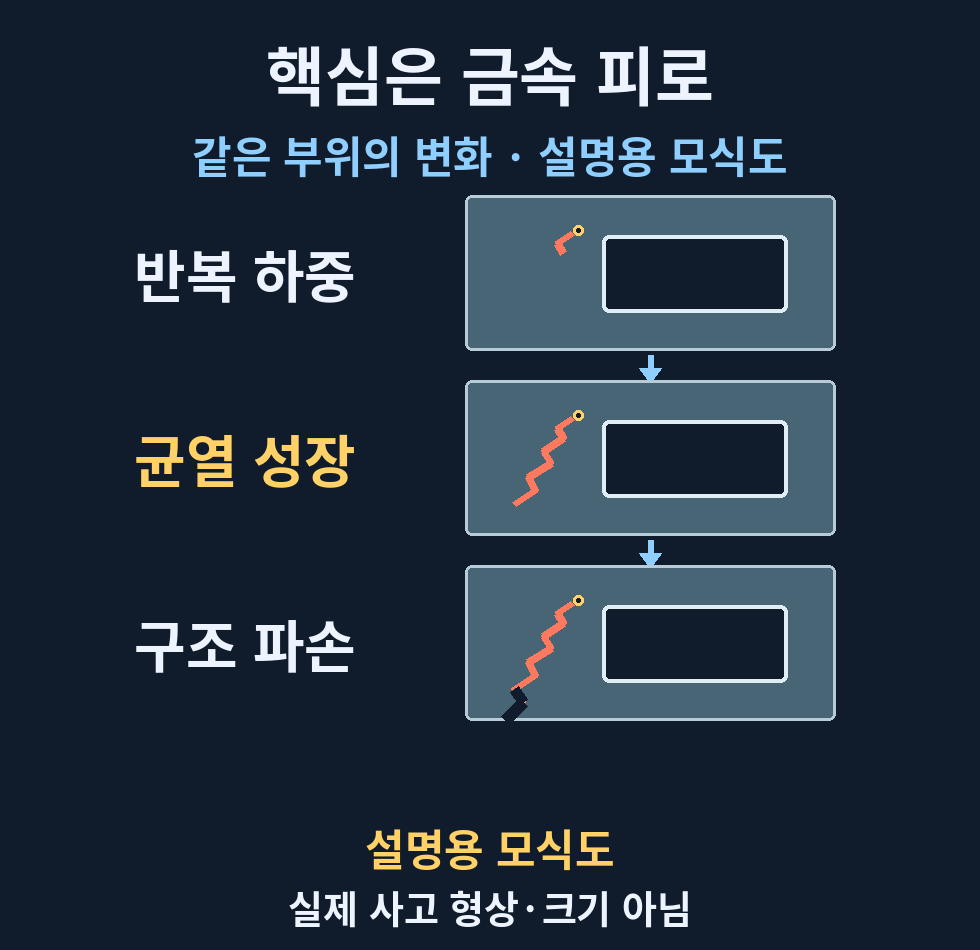
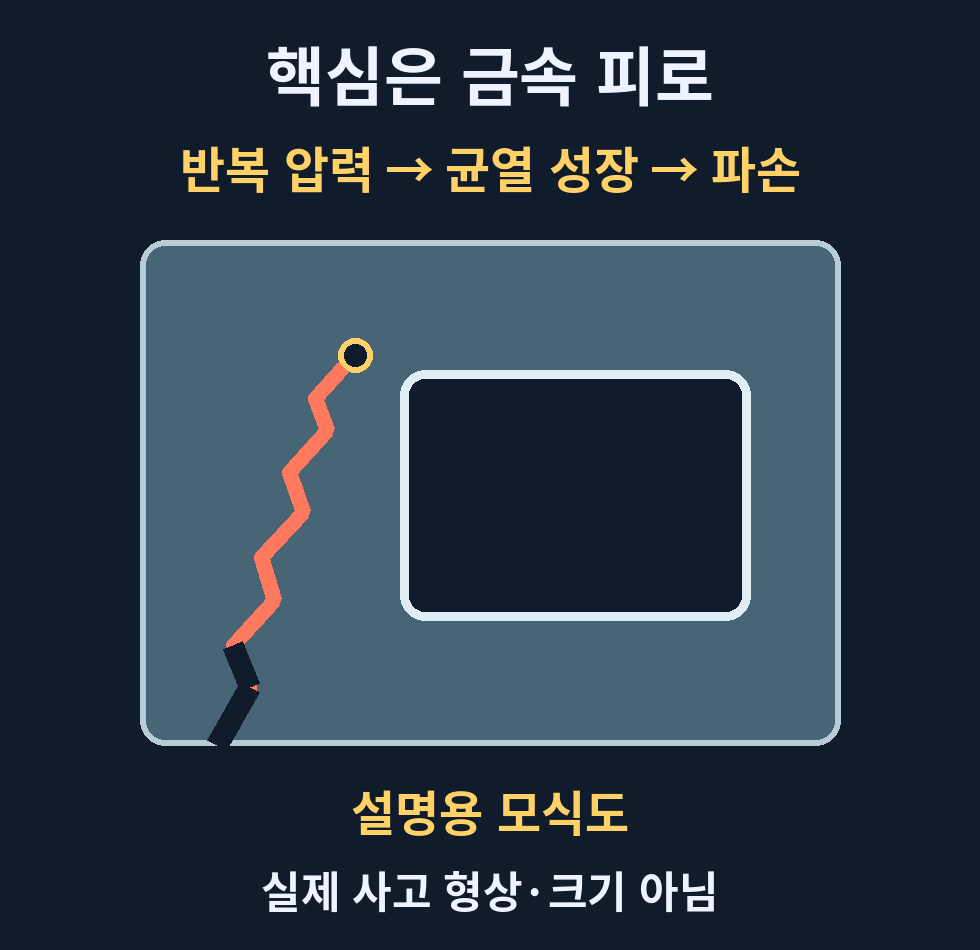
Replace crowded ending with one large conceptual fracture view

diff --git a/tools/build_comet_fatigue_cards.py b/tools/build_comet_fatigue_cards.py
@@ -73,15 +73,12 @@ def build(root):
     text(d,490,788,"같은 구멍에서 더 길어진 균열",47,GOLD)
     footer(d);im.save(root/"crack-grown.png")
 
-    im,d=base("핵심은 금속 피로", "같은 부위의 변화 · 설명용 모식도")
-    for i,(label,stage) in enumerate([("반복 하중",0),("균열 성장",1),("구조 파손",2)]):
-        y=230+i*185
-        specimen(d,stage,(465,y-35,835,y+120))
-        text(d,245,y+43,label,56,GOLD if i==1 else WHITE)
-        if i<2:
-            d.line((650,y+125,650,y+143),fill=BLUE,width=6)
-            d.polygon([(650,y+153),(639,y+138),(661,y+138)],fill=BLUE)
-    footer(d);im.save(root/"summary.png")
+    im,d=base("핵심은 금속 피로", "")
+    specimen(d,2)
+    text(d,490,167,"반복 압력 → 균열 성장 → 파손",49,GOLD)
+    text(d,490,810,"설명용 모식도",48,GOLD)
+    text(d,490,889,"실제 사고 형상·크기 아님",43,WHITE)
+    im.save(root/"summary.png")
 
 if __name__=="__main__":
     root=Path("assets/comet-terra")
